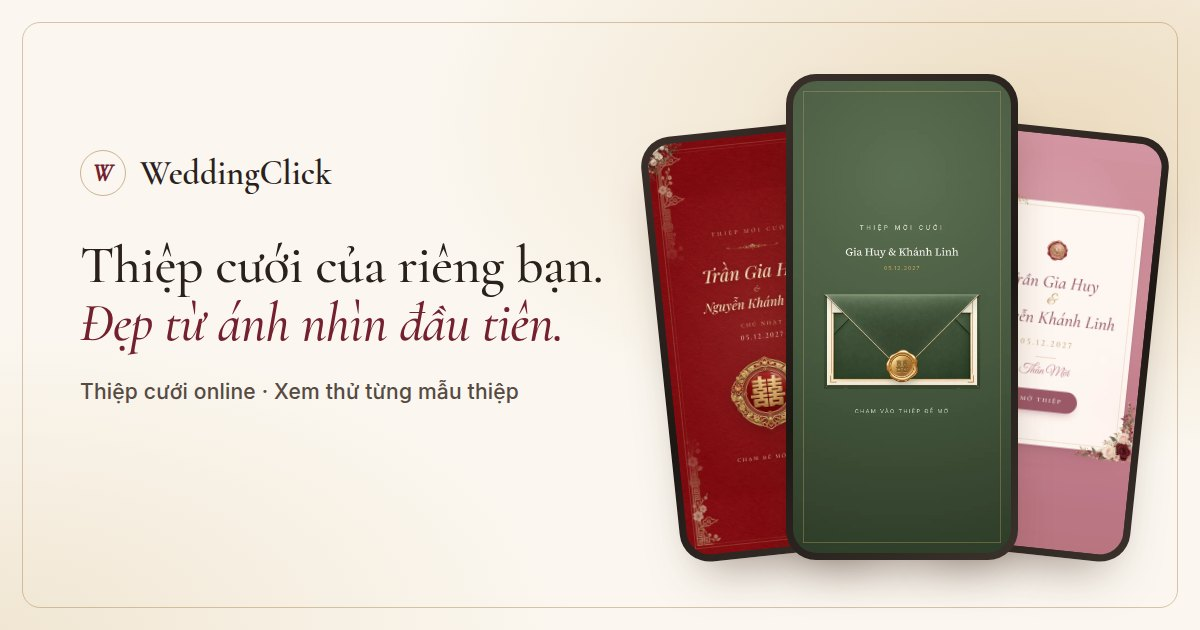
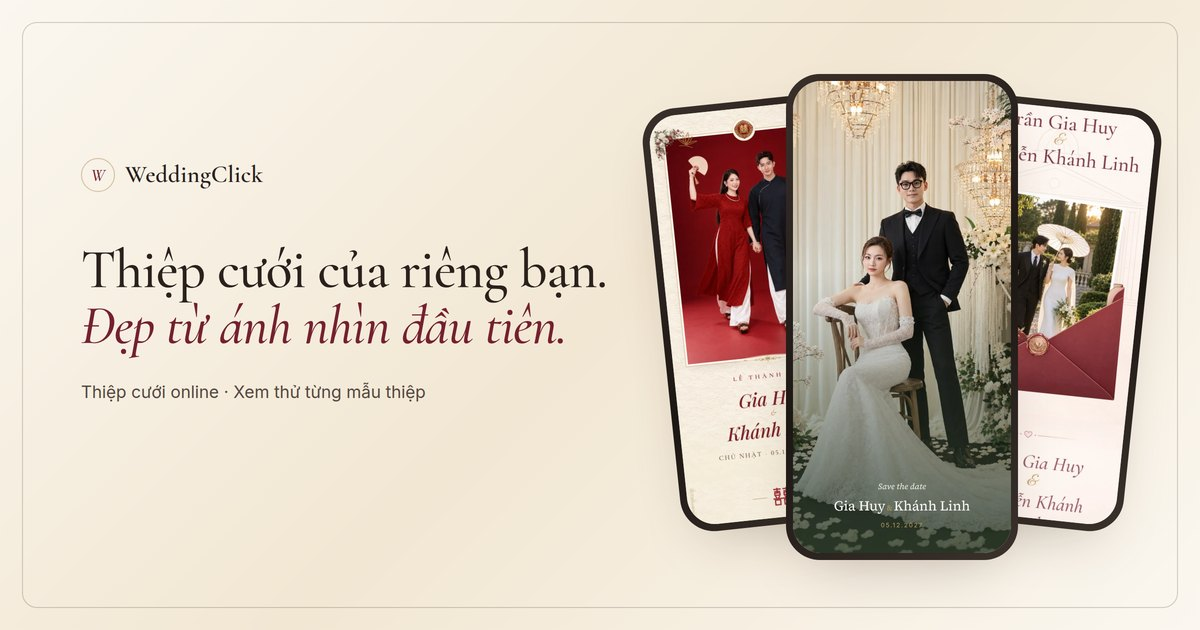
feat(showroom): open every template card on its couple hero
The five showroom cards opened on a closed envelope, a sealed door or a
lacquer box, so four of them showed no couple at all. Each gated template
is now captured one tap past its gate, under prefers-reduced-motion so the
choreography settles immediately and the frame is deterministic.

- Our Wedding Story is kept byte-for-byte: v2 has no opening gate, so its
  cover already was that hero.
- Romantic Minimal's cover is framed 150 CSS px in, because the listing
  card shows only a capture's top 390x600 and at scroll 0 that crop cut the
  couple off below the names. Its inside shot moves to the invitation card,
  since the hero IS the Save The Date panel the old inner shot held and the
  card crossfades cover -> inside on hover.
- Vietnamese Heritage's inside shot is re-captured with its portrait
  cluster loaded; the old file had baked in the renderer's bokeh
  placeholder for all three frames.
- og-weddingclick.jpg is re-rendered from the new covers. Composition,
  copy, palette, 1200x630 and progressive JPEG are unchanged; the centre
  phone is reproduced to the pixel. The public URL stays the one
  showroom-site-url.ts owns.

Cover alt text now describes the opened hero rather than an opening screen.
The screenshot test measured nothing but file existence despite its name;
it now parses each WebP header for real pixel dimensions and asserts cover
and inside differ, which is what catches a hover that crossfades to itself.

diff --git a/lib/showroom/__tests__/showroom-catalog.test.ts b/lib/showroom/__tests__/showroom-catalog.test.ts
@@ -35,6 +35,33 @@ const WITH_FIFTH_MANIFEST = [
   },
 ] as const;
 
+/**
+ * Real pixel size of a WebP file, read from its own header (VP8 lossy, VP8L
+ * lossless or VP8X extended). No image library: the point is to measure the
+ * committed bytes rather than trust the catalog entry that describes them.
+ */
+function webpSize(bytes: Buffer): { readonly width: number; readonly height: number } {
+  if (bytes.toString("ascii", 0, 4) !== "RIFF" || bytes.toString("ascii", 8, 12) !== "WEBP") {
+    throw new Error("not a WebP file");
+  }
+  const chunk = bytes.toString("ascii", 12, 16);
+  if (chunk === "VP8 ") {
+    if (bytes.readUInt8(23) !== 0x9d || bytes.readUInt8(24) !== 0x01 || bytes.readUInt8(25) !== 0x2a) {
+      throw new Error("VP8 start code missing");
+    }
+    return { width: bytes.readUInt16LE(26) & 0x3fff, height: bytes.readUInt16LE(28) & 0x3fff };
+  }
+  if (chunk === "VP8L") {
+    if (bytes.readUInt8(20) !== 0x2f) throw new Error("VP8L signature missing");
+    const header = bytes.readUInt32LE(21);
+    return { width: (header & 0x3fff) + 1, height: ((header >>> 14) & 0x3fff) + 1 };
+  }
+  if (chunk === "VP8X") {
+    return { width: bytes.readUIntLE(24, 3) + 1, height: bytes.readUIntLE(27, 3) + 1 };
+  }
+  throw new Error(`unsupported WebP chunk ${chunk}`);
+}
+
 describe("LAUNCH-P0-04 showroom catalog", () => {
   it("publishes exactly the five released templates, in display order", () => {
     expect(PUBLIC_SHOWROOM_TEMPLATES.map((template) => template.templateCode)).toStrictEqual([
@@ -80,12 +107,20 @@ describe("LAUNCH-P0-04 showroom catalog", () => {
   });
 
   it("screenshots follow the one naming rule and real dimensions", () => {
+    const publicDir = fileURLToPath(new URL("../../../public", import.meta.url));
     for (const template of PUBLIC_SHOWROOM_TEMPLATES) {
       expect(template.cover.src).toBe(`/showroom/templates/${template.templateCode}-cover.webp`);
       expect(template.preview.src).toBe(`/showroom/templates/${template.templateCode}-inside.webp`);
-      const publicDir = fileURLToPath(new URL("../../../public", import.meta.url));
-      expect(() => readFileSync(`${publicDir}${template.cover.src}`)).not.toThrow();
-      expect(() => readFileSync(`${publicDir}${template.preview.src}`)).not.toThrow();
+      const cover = readFileSync(`${publicDir}${template.cover.src}`);
+      const preview = readFileSync(`${publicDir}${template.preview.src}`);
+      // SHOWROOM-CARD-HERO-01: the declared size is what the cards and the hero
+      // phone mockups reserve space with, so a re-capture at any other size is a
+      // layout bug the catalog cannot see. Measure the bytes, not the entry.
+      expect(webpSize(cover), template.cover.src).toStrictEqual({ width: template.cover.width, height: template.cover.height });
+      expect(webpSize(preview), template.preview.src).toStrictEqual({ width: template.preview.width, height: template.preview.height });
+      // The card crossfades cover -> inside on hover; the same frame twice makes
+      // that a no-op, which is how a re-captured cover quietly swallows the inner view.
+      expect(cover.equals(preview), template.templateCode).toBe(false);
     }
   });
 

diff --git a/lib/showroom/showroom-catalog.ts b/lib/showroom/showroom-catalog.ts
@@ -16,7 +16,7 @@ import type { RendererProductionManifestV1 } from "../../templates/core/renderer
  *
  * Adding a template to the homepage is ONE new entry in
  * `SHOWROOM_TEMPLATE_ENTRIES` (plus its two screenshots under
- * `public/showroom/templates/`). Cards, routes, demo pages, sitemap of static
+ * `public/showroom/templates/`: the opened hero and an inner section). Cards, routes, demo pages, sitemap of static
  * params and the consultation page all derive from this list; no JSX changes.
  * An entry starts as `HIDDEN` and becomes `PUBLIC` only after its renderer is
  * registered, seeded active in the catalog and its demo is reviewed.
@@ -50,7 +50,12 @@ export interface ShowroomTemplateEntry {
   readonly moodVi: readonly string[];
   /** Card accent colour (hex) giving each design its own personality. */
   readonly accent: string;
-  /** Real screenshot of the template's opening screen (demo, 390 px wide, 2×). */
+  /**
+   * Real screenshot of the template's first opened screen — the hero the
+   * guest meets once the envelope/gate is past, with the couple in frame
+   * (demo, 390 px wide, 2×). Templates without an opening gate are already
+   * on that screen at load.
+   */
   readonly cover: ShowroomImage;
   /** Real screenshot of an inner section of the same demo. */
   readonly preview: ShowroomImage;
@@ -85,7 +90,7 @@ function screenshots(templateCode: string, nameVi: string): Pick<ShowroomTemplat
       src: `/showroom/templates/${templateCode}-cover.webp`,
       width: 780,
       height: 1688,
-      alt: `Màn hình mở đầu của mẫu thiệp ${nameVi}`,
+      alt: `Ảnh cưới mở đầu của mẫu thiệp ${nameVi}`,
     },
     preview: {
       src: `/showroom/templates/${templateCode}-inside.webp`,

diff --git a/lib/showroom/demo/ASSETS.md b/lib/showroom/demo/ASSETS.md
@@ -146,29 +146,35 @@ Se Duyên declares **no person-bound slot**: every frame is a layout position, i
 
 ## Template screenshots — `public/showroom/templates/`
 
-Real screenshots of the public demo pages (`/mau-thiep/<code>`, demo bar removed) from a local production build, headless Chrome, 390×844 CSS px at 2× (780×1688), WebP quality 78. `<code>-cover.webp` is the closed opening screen; `<code>-inside.webp` is an inner section after opening. Re-capture whenever a renderer version, the demo data or the demo images change, and for every new template.
+Real screenshots of the public demo pages (`/mau-thiep/<code>`, demo bar removed) from a local production build, headless Chrome, 390×844 CSS px at 2× (780×1688), WebP quality 78. `<code>-cover.webp` is the **first opened screen** — the hero the guest meets once the envelope, door or box is past, with the couple in frame; `<code>-inside.webp` is a further inner section. Re-capture whenever a renderer version, the demo data or the demo images change, and for every new template. **Before every shot, scroll the whole document once and wait until every `<img>` reports `naturalWidth > 0`**: the renderers lazy-load below-the-fold photography behind a soft placeholder, and a capture taken too early bakes that placeholder into the asset.
+
+SHOWROOM-CARD-HERO-01 (2026-10-26, Product Owner): the covers used to be the **closed** opening screen — an envelope, a sealed door or a lacquer box — so four of the five cards showed no couple at all. Every gated template was re-captured one tap past its gate, under `prefers-reduced-motion: reduce` so the choreography settles immediately and the frame is deterministic. `our-wedding-story-cover.webp` was already that hero (OWS v2 has no opening gate) and is kept byte-for-byte. `romantic-minimal-inside.webp` was re-framed to the invitation card and countdown, because Romantic Minimal's opened hero *is* the Save The Date panel its old inner shot already held, and the card crossfades cover→inside on hover. Romantic Minimal's cover is the only one framed below the fold — 150 CSS px into the same opened hero — because the listing card shows a capture's top 390×600 CSS px only (`.cardPhone .phoneScreen`, `object-position: top center`), and at scroll 0 that crop cut the couple off below the names.
 
 `our-wedding-story-cover.webp` was re-captured on 2026-10-15 (OWS-V2-CATALOG-01) after the ten Our Wedding Story
 demo photos were re-framed; that capture used WebP quality 80 and a reduced-motion settled state. Its `-inside`
 counterpart was re-measured against a fresh capture, differed only by WebP compression noise, and was deliberately
 kept byte-for-byte, so its hash below is unchanged.
 
-| File | Inner view | SHA-256 |
+| File | View | SHA-256 |
 |---|---|---|
-| elegant-editorial-cover.webp | — | 97ff43c98ea11a07b8b06ccbc8e7d45a98376624bedb451059acecee34351c50 |
+| elegant-editorial-cover.webp | opened hero: couple portrait, “Save the date” | 0fd0aaf4600a0aecffc063995a0226908c7f22c0631fc6aa7982bca5d6bed090 |
 | elegant-editorial-inside.webp | date, countdown, calendar | 10d3698645659ce6d3fc15043a44718520ae065961c1e4c25efc4ba94b040364 |
-| vietnamese-heritage-cover.webp | — | 21396f3280d4334f488f8d11a8b453420d73eebf736003ced5f24eb521c91d34 |
-| vietnamese-heritage-inside.webp | families, portrait cluster | 2a801e4d0396867f6c95232d0271c59e9ab44be55b832000ff734045fc65beac |
-| romantic-minimal-cover.webp | — | baaa1fd05977ce4ffd559fe9b4af43607dff90759f27019ee5e1d78a17dfa15c |
-| romantic-minimal-inside.webp | Save The Date photo rising from the envelope | df6b452d4b804b2782ac6446132e9628568f45c41edef00904916248d3025833 |
-| our-wedding-story-cover.webp | — | 35802259ea86ee3197fc257d7b681eb13b306ae39cd0d415f5fc3c63313677a9 |
+| vietnamese-heritage-cover.webp | opened hero: couple in áo dài, Lễ Thành Hôn | d46ea2458424a33a92d47640ee1011ea99625d426ce738d88d1baf670650989c |
+| vietnamese-heritage-inside.webp | families, portrait cluster (groom, couple, bride) | b3ae9a013ae553f23aaffd808f5b743db7d3155a8fc35426d660ed4ed9384a72 |
+| romantic-minimal-cover.webp | opened hero (+150 px): names, couple rising from the envelope | e07d5050586edb35bbd82c237722c2421ad9151ab6bbf400d64f1fda1df2c255 |
+| romantic-minimal-inside.webp | invitation card, date, countdown | cb3412deed547458a2b5961308b0205a9ccd6a172c95f6d6b04259bc496b8a21 |
+| our-wedding-story-cover.webp | opened hero: couple portrait (no opening gate) | 35802259ea86ee3197fc257d7b681eb13b306ae39cd0d415f5fc3c63313677a9 |
 | our-wedding-story-inside.webp | invitation card | 724b2888147fe787dda0c44ce1d9434b9ab4c27c7b2657dc2a53aa5cbe6562a7 |
-| se-duyen-cover.webp | — | 1f6bb70aef155b737e39611fbeea2893e719d29278117963a257a4d598cf0b49 |
+| se-duyen-cover.webp | opened hero: couple in áo dài on lacquer red | 9a0abccb4f61a6efd0166f74da9fd23044fe8c035a42fc69517f506176ea028d |
 | se-duyen-inside.webp | invitation card: Lễ Thành Hôn, date, time, lunar date | 79114db672d990f098430ceb60337a1f74e159ad38bacc855947e23ea7762ffe |
 
 
-The two `se-duyen-*.webp` captures (SD-V1-SHOWROOM-01, 2026-10-23) are real captures of `/mau-thiep/se-duyen` running the production Se Duyên v1 renderer on the demo data above: the cover is the closed lacquer box (“Chạm vào hộp để nhận thiệp”), the inside shot is the opened invitation card. No placeholder art and no broken media in either.
+`vietnamese-heritage-inside.webp` was re-captured on 2026-10-26 (SHOWROOM-CARD-HERO-01). The previous file had been shot before its portrait cluster loaded, so the three frames held the renderer's bokeh placeholder instead of the groom, couple and bride photographs — visible on the card's hover state. Same section, same framing, same 780×1688; only the three photographs are now real. This is the capture that motivated the settle rule above.
+
+The two `se-duyen-*.webp` captures are real captures of `/mau-thiep/se-duyen` running the production Se Duyên v1 renderer on the demo data above: the cover (re-captured 2026-10-26, SHOWROOM-CARD-HERO-01) is the opened hero — the couple in áo dài on lacquer red under the gilt names — and the inside shot (SD-V1-SHOWROOM-01, 2026-10-23) is the invitation card. No placeholder art and no broken media in either.
 
 ## Social share image — `public/showroom/og-weddingclick.jpg`
 
[2 lines of base64/hex data omitted]
+
+Refreshed on 2026-10-26 (SHOWROOM-CARD-HERO-01) so it carries the approved couple heroes instead of the closed envelope, door and envelope-card it used to show. The composition, copy, palette, dimensions and format are unchanged — only the three screenshots inside the phones differ; the centre phone is reproduced to the pixel (x 786–1017, y 74–559). It grew from 71 KB to 89 KB because photographs compress less than flat envelope art, which is far below every platform's limit. The public URL it is served from is owned by `lib/showroom/showroom-site-url.ts` (PR #9) and is untouched here.
